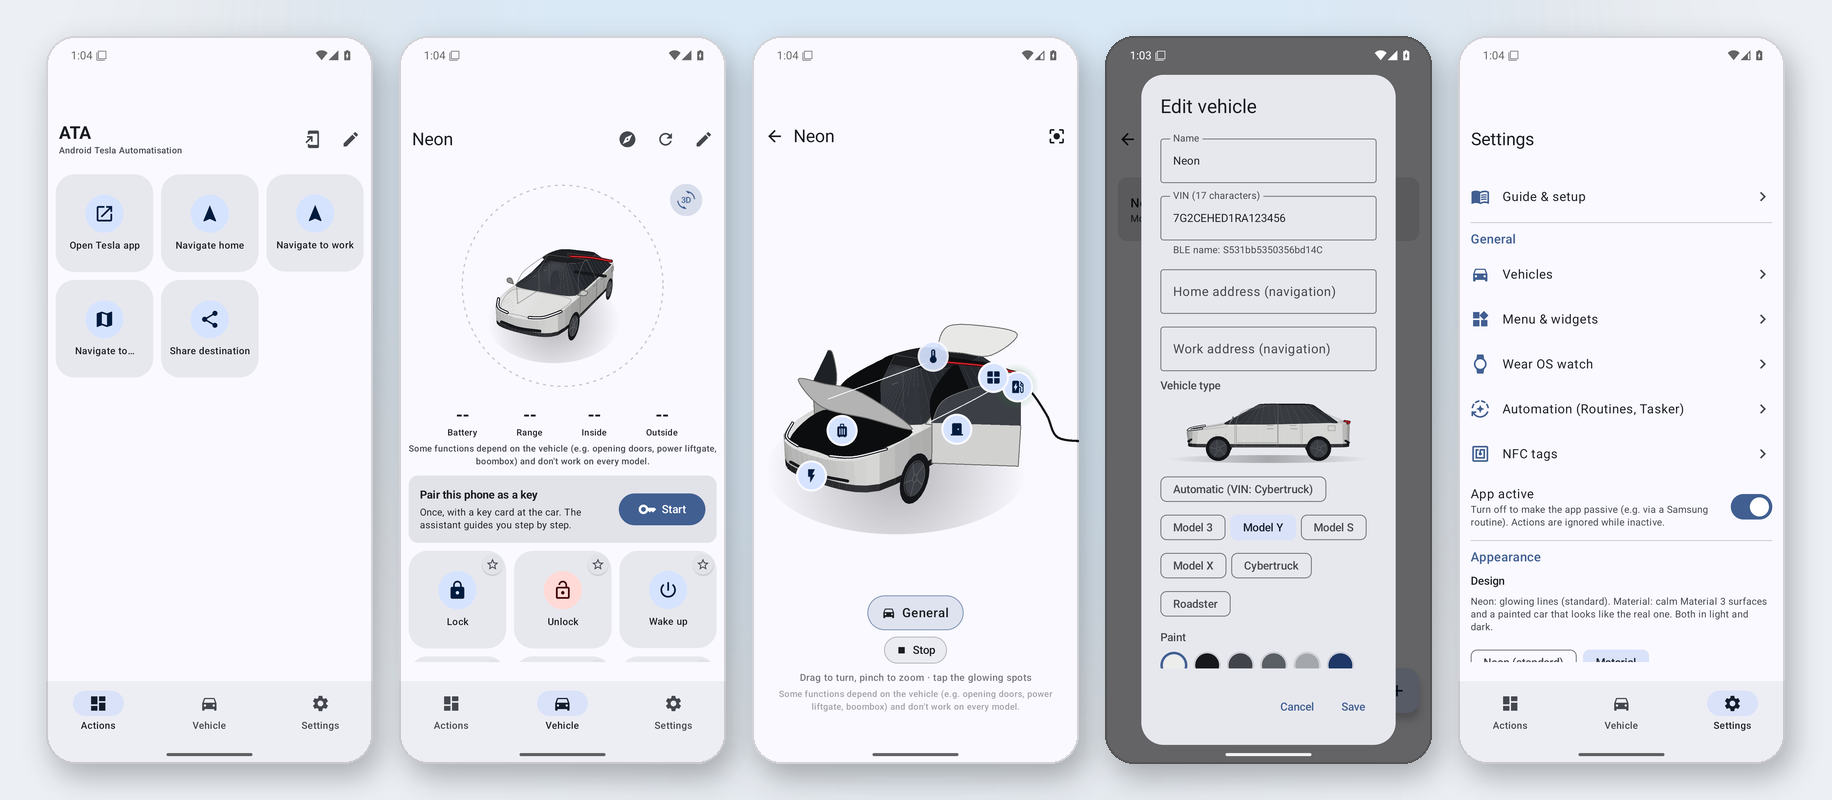
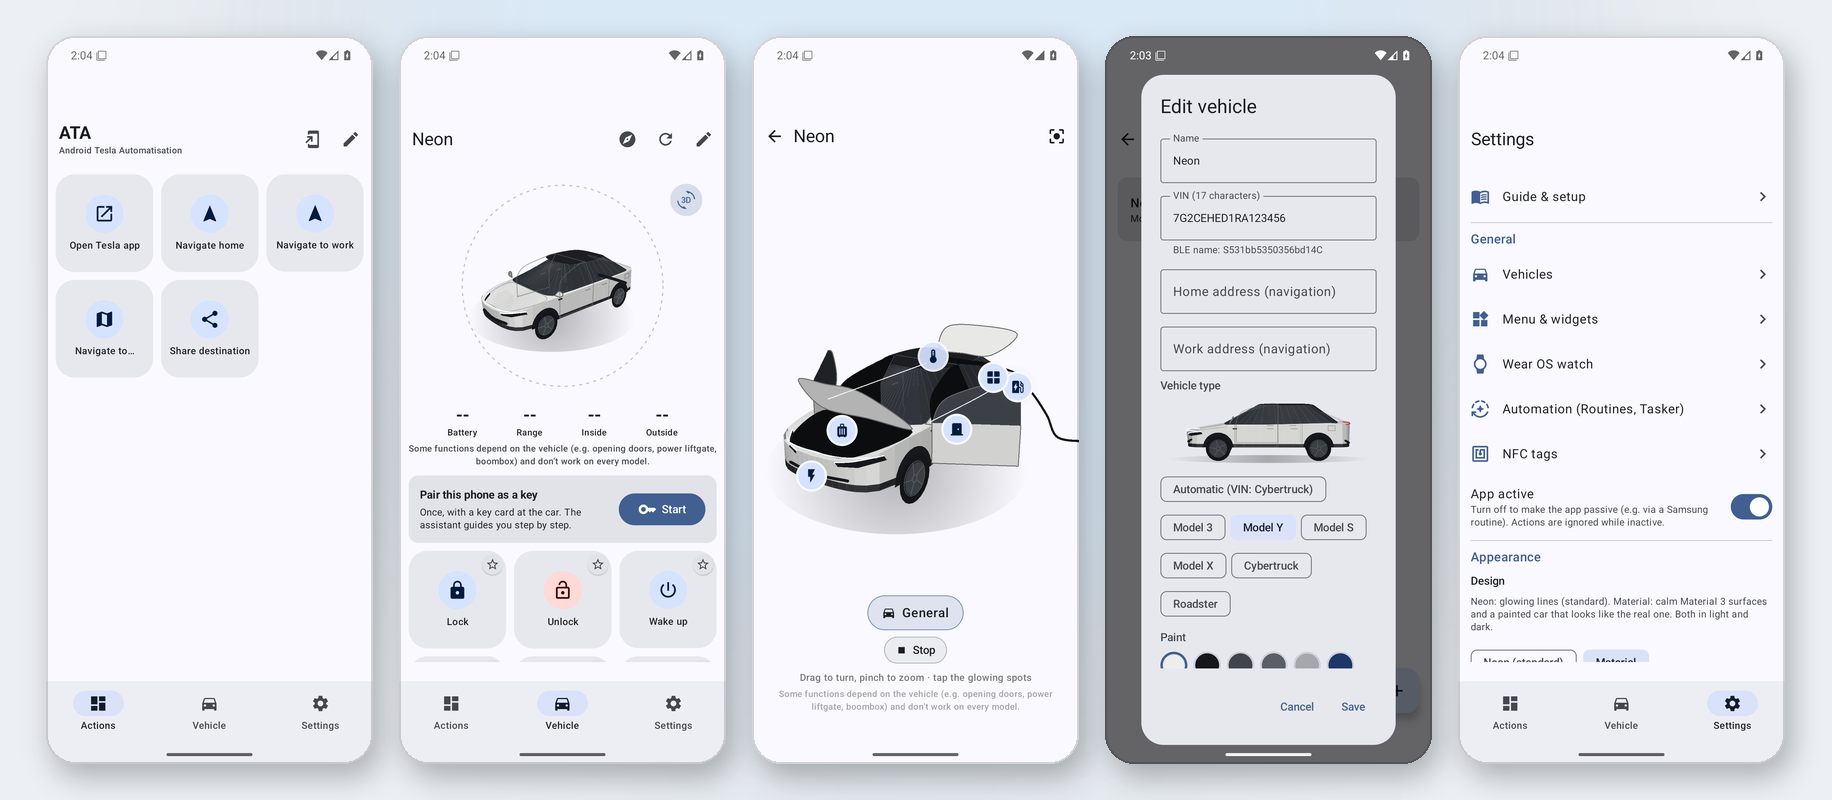
ATA v1.8.2: real light signatures (Model 3 Highland, Model Y Juniper …) for neon and Material, more real-car details, neon light mode, new README collages

Changed region(s): [[0.2489, 0.3125, 0.3422, 0.4688], [0.4356, 0.5625, 0.4978, 0.5938], [0.6534, 0.5312, 0.6845, 0.5625]]

diff --git a/app/src/main/java/org/tfv/ata/ui/components/car/CarModel.kt b/app/src/main/java/org/tfv/ata/ui/components/car/CarModel.kt
@@ -40,6 +40,19 @@ data class BodySpec(
   val angular: Boolean = false,
   /** Four doors (false: coupé, no rear seats). */
   val rearDoors: Boolean = true,
+  /** Light design of the real car (used by the Material design). */
+  val lights: Lights = Lights(),
+)
+
+/**
+ * Which lights the real car has: slim swept headlights, a light bar across the front, taillights wrapping
+ * round the rear corners and/or a light bar across the back.
+ */
+data class Lights(
+  val sweptHeads: Boolean = true,
+  val frontBar: Boolean = false,
+  val wrapTails: Boolean = true,
+  val rearBar: Boolean = false,
 )
 
 object CarModel {
@@ -53,6 +66,7 @@ object CarModel {
       2.37f, .98f, .40f,
       listOf(2.40f to .80f, 1.50f to .98f, .90f to 1.30f, .30f to 1.58f, -.70f to 1.60f, -1.45f to 1.52f, -2.05f to 1.25f, -2.37f to 1.08f), .56f,
       .80f, 1.04f, 1.08f, .30f, -1.35f, .62f, 1.60f, 1.25f, -2.0f, 1.45f, -1.45f, .36f, -.28f,
+      lights = Lights(frontBar = true, wrapTails = false, rearBar = true),
     ),
     BodyStyle.MODEL_S to BodySpec(
       2.5f, .98f, .35f,
@@ -68,11 +82,13 @@ object CarModel {
       2.85f, 1.0f, .48f,
       listOf(2.88f to .98f, 1.95f to 1.12f, .05f to 1.92f, -2.85f to 1.22f), .62f,
       .98f, 1.08f, 1.22f, .30f, -.25f, .55f, 1.90f, 1.95f, -.90f, 1.85f, -1.85f, .42f, -.45f, angular = true,
+      lights = Lights(sweptHeads = false, frontBar = true, wrapTails = false, rearBar = true),
     ),
     BodyStyle.ROADSTER to BodySpec(
       2.15f, .98f, .32f,
       listOf(2.17f to .60f, 1.30f to .78f, .65f to 1.02f, .05f to 1.15f, -.65f to 1.13f, -1.45f to .98f, -2.15f to .82f), .52f,
       .60f, .86f, .84f, .10f, -.60f, .52f, 1.15f, .95f, -1.45f, 1.35f, -1.35f, .34f, -.45f, rearDoors = false,
+      lights = Lights(wrapTails = false, rearBar = true),
     ),
   )
   private val shapes = HashMap<BodyStyle, CarShape>()
@@ -186,12 +202,6 @@ class CarShape(private val s: BodySpec) {
     }
   }
 
-  val headlights: List<List<V3>> =
-    if (s.angular) listOf(listOf(V3(-w * .7f, s.beltFront + .02f, l + .02f), V3(w * .7f, s.beltFront + .02f, l + .02f)))
-    else listOf(1f, -1f).map { side ->
-      CarModel.smooth(listOf(V3(side * .30f, s.beltFront + .06f, l), V3(side * .64f * w, s.beltFront + .09f, l - .1f), V3(side * .9f * w, s.beltFront + .14f, l - .45f)))
-    }
-  val taillight: List<V3> = line(listOf(V3(-w * .8f, s.beltRear, -l + .08f), V3(0f, s.beltRear + .01f, -l - .03f), V3(w * .8f, s.beltRear, -l + .08f)))
 
   /** Front edge of the front doors: behind the windscreen base and the front wheel arch. */
   val doorFront = minOf(s.windscreenBase - .08f, s.wheelFront - s.wheelRadius - .12f)
@@ -459,6 +469,61 @@ class CarShape(private val s: BodySpec) {
     return listOf(lines[2][0], lines[2][1], lines[1][1]) + lines[3].reversed()
   }
   fun doorWindow(side: Float): List<V3> = listOf(frontDoor(side)[1][1]) + frontDoor(side)[3].reversed()
+
+  // ---- Light signatures of the current cars (Model 3 "Highland", Model Y "Juniper" …) ----
+
+  /** A light lens: its outline and which way it faces (for hiding it when the car is turned away). */
+  class Lens(val outline: List<V3>, val normal: V3, val strip: List<V3>)
+
+  private val bf = s.beltFront
+  private val br = s.beltRear
+
+  /** Slim headlights sweeping back into the fenders, with the daytime-running-light strip on top. */
+  val headLenses: List<Lens> = if (!s.lights.sweptHeads) emptyList() else listOf(-1f, 1f).map { side ->
+    val low = if (s.lights.frontBar) -.05f else 0f
+    val top = listOf(V3(side * .36f * w, bf + .02f + low, l - .02f), V3(side * .62f * w, bf + .06f + low, l - .12f), V3(side * .88f * w, bf + .1f + low, l - .42f))
+    val bottom = listOf(V3(side * .9f * w, bf + .03f + low, l - .46f), V3(side * .66f * w, bf - .03f + low, l - .15f), V3(side * .4f * w, bf - .04f + low, l - .04f))
+    Lens(CarModel.smooth(top, steps = 4) + bottom, V3(side * .45f, .25f, .85f), CarModel.smooth(top, steps = 4))
+  }
+
+  /** Light bar across the nose (new Model Y, Cybertruck). */
+  val frontBar: List<V3>? = if (!s.lights.frontBar) null else line(
+    listOf(V3(-.86f * w, bf + .06f, l - .3f), V3(-.5f * w, bf + .07f, l - .02f), V3(0f, bf + .07f, l + .04f), V3(.5f * w, bf + .07f, l - .02f), V3(.86f * w, bf + .06f, l - .3f)),
+  )
+
+  /** Taillights wrapping round the rear corners onto the sides. */
+  val tailLenses: List<Lens> = if (!s.lights.wrapTails) emptyList() else listOf(-1f, 1f).map { side ->
+    val outline = listOf(
+      V3(side * .42f * w, br - .02f, -l - .01f), V3(side * .78f * w, br, -l + .08f), V3(side * .97f * w, br - .02f, -l * .82f),
+      V3(side * .99f * w, br - .11f, -l * .8f), V3(side * .8f * w, br - .13f, -l + .1f), V3(side * .44f * w, br - .12f, -l),
+    )
+    // C-shaped light signature (Model 3 "Highland"): along the top, round the corner and back along the bottom.
+    val c = CarModel.smooth(
+      listOf(
+        V3(side * .5f * w, br - .03f, -l - .005f), V3(side * .84f * w, br - .02f, -l + .1f), V3(side * .975f * w, br - .05f, -l * .815f),
+        V3(side * .96f * w, br - .1f, -l * .81f), V3(side * .82f * w, br - .115f, -l + .1f), V3(side * .52f * w, br - .105f, -l - .005f),
+      ),
+      steps = 4,
+    )
+    Lens(outline, V3(side * .5f, .1f, -.85f), c)
+  }
+
+  /** Light bar across the back. */
+  val rearBar: List<V3>? = if (!s.lights.rearBar) null else line(
+    listOf(V3(-.9f * w, br - .03f, -l + .12f), V3(-.5f * w, br - .02f, -l - .01f), V3(0f, br - .02f, -l - .03f), V3(.5f * w, br - .02f, -l - .01f), V3(.9f * w, br - .03f, -l + .12f)),
+  )
+
+  /** Dark wheel-arch liner above each tyre. */
+  fun archLiner(side: Float, zc: Float): List<V3> {
+    val r = s.wheelRadius + .08f
+    return CarModel.circleYZ(side * w * 1.01f, s.wheelRadius + .03f, zc, r, 14, 0.0, PI) + V3(side * w * 1.01f, s.sill, zc - r) + V3(side * w * 1.01f, s.sill, zc + r)
+  }
+
+  /** Side camera on the front fender. */
+  fun sideCamera(side: Float): List<V3> {
+    val z = s.wheelFront - s.wheelRadius - .12f
+    return listOf(V3(side * (w + .01f), s.beltMid - .1f, z + .05f), V3(side * (w + .01f), s.beltMid - .1f, z - .05f))
+  }
 
   /** Where the tappable spot of [spot] sits on this body. */
   fun anchor(spot: CarHotspot): V3 = when (spot) {

diff --git a/app/src/main/java/org/tfv/ata/ui/components/car/NeonCar.kt b/app/src/main/java/org/tfv/ata/ui/components/car/NeonCar.kt
@@ -190,7 +190,9 @@ fun DrawScope.drawNeonCar(
       val mid = (a.offset.x + b.offset.x) / 2f
       val spec = exp(-((mid - highlightX) / (area.width * .11f)).let { it * it })
       val c = lerp(color, style.white, spec * .65f)
-      drawLine(c.copy(alpha = alpha * (.38f + .62f * depth.coerceIn(0f, 1f))), a.offset, b.offset, width, StrokeCap.Round)
+      // Lines further back fade (less on light backgrounds, where faint lines would vanish).
+      val near = if (style.glow) .38f else .62f
+      drawLine(c.copy(alpha = alpha * (near + (1 - near) * depth.coerceIn(0f, 1f))), a.offset, b.offset, width, StrokeCap.Round)
     }
   }
 
@@ -260,7 +262,11 @@ fun DrawScope.drawNeonCar(
         }
         fill(f.points, lit(base, f.normal))
       }
+    for (side in nearSides) {
+      for ((s2, zc) in shape.wheelCenters) if (s2 == side) fill(shape.archLiner(side, zc), solid.trim)
+    }
     wheels(nearSides)
+    for (side in nearSides) polyline(shape.sideCamera(side), solid.trim, width = style.lineWidth * 1.6f)
   }
 
   // Interior effects (neon: seen through the glass, drawn first; solid: on top of the glass).
@@ -450,23 +456,40 @@ fun DrawScope.drawNeonCar(
   val breathe = if (solid != null) 1f else .72f + .28f * sin(t * 1.3f)
   // Wake: the light bars light up from the middle outwards.
   val wakeLight = wakeP?.let { (it * 2.2f).coerceIn(0f, 1f) }
-  if (solid != null) {
-    // Dark lenses behind the light strips.
-    shape.headlights.forEach { polyline(it, solid.trim, width = style.lineWidth * 3.4f) }
-    polyline(shape.taillight, Color(0xFF3A0B0E), width = style.lineWidth * 3.4f)
+  // The real cars' light signature (lenses, strips, light bars). Neon draws it as glowing lines (seen through
+  // the car), the solid body only on the side facing the viewer.
+  val front = V3(0f, .2f, 1f)
+  val back = V3(0f, .2f, -1f)
+  fun visible(normal: V3, limit: Float) = solid == null || camera.facing(normal) > limit
+  val headLines: List<List<V3>> = buildList {
+    shape.headLenses.filter { visible(it.normal, -.15f) }.forEach { add(it.strip) }
+    shape.frontBar?.takeIf { visible(front, -.2f) }?.let { add(it) }
   }
-  shape.headlights.forEach { polyline(it, style.white, width = style.lineWidth * 1.3f, alpha = breathe) }
-  polyline(shape.taillight, style.red, width = style.lineWidth * 1.3f, alpha = (.75f + .25f * breathe) + .1f * lightBoost)
+  val tailLines: List<List<V3>> = buildList {
+    shape.tailLenses.filter { visible(it.normal, -.15f) }.forEach { add(it.strip) }
+    shape.rearBar?.takeIf { visible(back, -.2f) }?.let { add(it) }
+  }
+  if (solid != null) {
+    shape.headLenses.filter { visible(it.normal, -.15f) }.forEach { fill(it.outline, solid.trim) }
+    shape.tailLenses.filter { visible(it.normal, -.15f) }.forEach { fill(it.outline, Color(0xFF5A0A10)) }
+  } else {
+    // Lens outlines as faint lines around the light strips.
+    shape.headLenses.forEach { polyline(it.outline + it.outline.first(), style.white, width = style.lineWidth * .7f, alpha = .35f) }
+    shape.tailLenses.forEach { polyline(it.outline + it.outline.first(), style.red, width = style.lineWidth * .7f, alpha = .35f) }
+  }
+  headLines.forEach { polyline(it, style.white, width = style.lineWidth * 1.3f, alpha = breathe) }
+  tailLines.forEach { polyline(it, style.red, width = style.lineWidth * 1.3f, alpha = (.75f + .25f * breathe) + .1f * lightBoost) }
   if (wakeLight != null) {
     val fade = 1f - (((wakeP ?: 1f) - .5f) / .5f).coerceIn(0f, 1f)
-    shape.headlights.forEach { polyline(it.take((it.size * wakeLight).toInt().coerceAtLeast(2)), style.white, width = style.lineWidth * 2.4f, alpha = fade) }
-    val tail = shape.taillight
-    val mid = tail.size / 2
-    val half = (mid * wakeLight).toInt()
-    polyline(tail.subList((mid - half).coerceAtLeast(0), (mid + half + 1).coerceAtMost(tail.size)), style.red, width = style.lineWidth * 2.4f, alpha = fade)
+    headLines.forEach { polyline(it.take((it.size * wakeLight).toInt().coerceAtLeast(2)), style.white, width = style.lineWidth * 2.4f, alpha = fade) }
+    tailLines.forEach { tail ->
+      val mid = tail.size / 2
+      val half = (mid * wakeLight).toInt()
+      polyline(tail.subList((mid - half).coerceAtLeast(0), (mid + half + 1).coerceAtMost(tail.size)), style.red, width = style.lineWidth * 2.4f, alpha = fade)
+    }
   }
-  if (drive != null) shape.headlights.forEach { polyline(it, style.white, width = style.lineWidth * 2.2f, alpha = sin(drive * PI).toFloat()) }
-  if (lightBoost > 0f) {
+  if (drive != null) headLines.forEach { polyline(it, style.white, width = style.lineWidth * 2.2f, alpha = sin(drive * PI).toFloat()) }
+  if (lightBoost > 0f && (solid == null || camera.facing(front) > -.1f)) {
     for (p in listOf(shape.headlightLeft, shape.headlightRight)) {
       val c = camera.project(p)
       val r = area.minDimension * .16f

diff --git a/app/src/main/java/org/tfv/ata/ui/screens/Car3DScreen.kt b/app/src/main/java/org/tfv/ata/ui/screens/Car3DScreen.kt
@@ -91,6 +91,7 @@ import org.tfv.ata.ui.components.iconFor
 import kotlin.math.roundToInt
 
 private val SHOWROOM = Color(0xFF04060B)
+private val SHOWROOM_LIGHT = Color(0xFFEEF2F7)
 
 /** Animation demo: what plays one after another (drawing only, nothing is sent to the car). */
 private val DEMO_STEPS: List<List<AtaAction>> = listOf(
@@ -199,11 +200,16 @@ fun Car3DScreen(vm: AtaViewModel, state: AtaUiState, onBack: () -> Unit) {
   val status = CarStatus(snapshot?.charging == true, snapshot?.climateOn == true, snapshot?.sentry == true, if (known) snapshot?.batteryPercent else null)
   val palette = AtaColors.current
   val material = palette.material
-  // Neon: always the dark showroom; Material: the app's surface in light or dark.
-  val look = rememberCarLook(state.selected, dark = if (material) palette.isDark else true, lineWidth = 3f)
+  // Neon: dark or light showroom; Material: the app's surface. Both follow the light / dark theme.
+  val dark = palette.isDark
+  val look = rememberCarLook(state.selected, dark = dark, lineWidth = 3f)
   val scheme = MaterialTheme.colorScheme
-  val bg = if (material) scheme.surface else SHOWROOM
-  val fg = if (material) scheme.onSurface else Color.White
+  val bg = when {
+    material -> scheme.surface
+    dark -> SHOWROOM
+    else -> SHOWROOM_LIGHT
+  }
+  val fg = if (material || !dark) scheme.onSurface else Color.White
   val accent = look.style.line
   val pulse by rememberInfiniteTransition(label = "spots").animateFloat(
     initialValue = .85f,
@@ -241,7 +247,7 @@ fun Car3DScreen(vm: AtaViewModel, state: AtaUiState, onBack: () -> Unit) {
         if (threeD) drawNeonCar(shape, camera, yaw, fx, status, now, look.style)
         else drawFlatCar(shape, camera, fx, status, now, look.flat)
         if (known) {
-          drawBatteryRing(Offset(size.width / 2f, size.height * .86f), size.minDimension * .07f, snapshot?.batteryPercent, status.charging, now, !material, accent, width = 8f, material = material)
+          drawBatteryRing(Offset(size.width / 2f, size.height * .86f), size.minDimension * .07f, snapshot?.batteryPercent, status.charging, now, !material && dark, accent, width = 8f, material = material)
         }
       }
 
@@ -265,7 +271,16 @@ fun Car3DScreen(vm: AtaViewModel, state: AtaUiState, onBack: () -> Unit) {
             } else {
               Box(Modifier.size(34.dp).background(accent.copy(alpha = .22f), CircleShape).border(1.5.dp, accent, CircleShape))
             }
-            Icon(spotIcon(spot), contentDescription = stringResource(titleFor(spot)), tint = if (material) scheme.onPrimaryContainer else Color.White, modifier = Modifier.size(18.dp))
+            Icon(
+              spotIcon(spot),
+              contentDescription = stringResource(titleFor(spot)),
+              tint = when {
+                material -> scheme.onPrimaryContainer
+                dark -> Color.White
+                else -> accent
+              },
+              modifier = Modifier.size(18.dp),
+            )
           }
         }
       }

diff --git a/app/src/main/java/org/tfv/ata/ui/components/car/CarLook.kt b/app/src/main/java/org/tfv/ata/ui/components/car/CarLook.kt
@@ -49,7 +49,8 @@ fun rememberCarLook(vehicle: Vehicle?, dark: Boolean = AtaColors.current.isDark,
   }
   val neon = Color((vehicle?.carNeon ?: org.tfv.ata.core.NeonColor.BLUE).argb)
   return CarLook(
-    style = NeonStyle(line = if (dark) neon else lerp(neon, Color.Black, .35f), glow = dark, lineWidth = if (dark) lineWidth else lineWidth + .6f),
+    // On light backgrounds the lines get darker and a bit stronger, so they read like ink instead of light.
+    style = NeonStyle(line = if (dark) neon else lerp(neon, Color(0xFF06121F), .5f), glow = dark, lineWidth = if (dark) lineWidth else lineWidth + 1f),
     flat = FlatStyle(palette.carBody, palette.carGlass, palette.accent, dark),
     material = false,
   )

diff --git a/RELEASE_NOTES.md b/RELEASE_NOTES.md
@@ -1,26 +1,17 @@
-## ATA v1.8.1 — Material Design, Farbwahl, Lenkrad links
+## ATA v1.8.2 — Echte Lichtsignaturen, Neon hell, realistischeres Material-Auto
 
-### Neues Design: Material
-- Unter **Einstellungen → Darstellung → Design** gibt es jetzt **Neon (Standard)** und **Material**, beide **hell und dunkel**.
-- **Material** stellt die ganze App um: ruhige Material-3-Flächen, flache Kacheln mit Symbol auf Tonfläche, ein gleichmäßiger Akku-Ring und eine weiche Ripple-Animation beim Ausführen.
-- **Das Fahrzeug in Material:**
-  - Ein lackiertes 3D-Auto, das dem echten nahekommt: schwarzes Glasdach, dunkle Scheiben, schwarze Schweller, Frontschürze und Diffusor, dunkle Aero-Felgen, Scheinwerfer mit Tagfahrlicht-Leiste, weicher Schatten und Klarlack-Glanz beim Drehen.
-  - Alle sechs Modelle, in 3D und in der 2D-Seitenansicht.
-- **Animationen in Material:**
-  - Türen, Frunk, Kofferraum und Ladeklappe öffnen sich als lackierte Teile, dahinter ist die dunkle Öffnung zu sehen.
-  - Spiegel klappen ein und aus.
-  - Licht, Ladekabel, Luftstrom, Musik, Wächter, Bioschutz, Aufwecken und Herbeirufen gibt es weiterhin, in Material-Farben ohne Leuchten.
+### Lichtsignaturen der aktuellen Teslas
+- **Model 3 (Highland):** schmale, nach hinten gezogene Scheinwerfer mit Tagfahrlicht-Leiste und **C-förmige Rückleuchten**, die um die Ecken laufen.
+- **Model Y (Juniper):** **Lichtleiste quer über die Front** mit tiefer liegenden Scheinwerfern und **durchgehende Lichtleiste hinten**.
+- **Model S / X:** schmale Scheinwerfer und Rückleuchten um die Ecken. **Cybertruck:** Lichtleisten vorne und hinten. **Roadster:** schmale Scheinwerfer und Leiste hinten.
+- Gilt für **Neon** (leuchtende Linien) und **Material** (Linsen und Leuchtstreifen).
 
-### Farbwahl pro Fahrzeug
-- In **Einstellungen → Fahrzeuge → Bearbeiten**:
-  - **Material:** Tesla-Lackierung wählen: Pearl White, Solid Black, Stealth Grey, Midnight Silver, Quicksilver, Deep Blue, Ultra Red oder Stainless (Standard beim Cybertruck).
-  - **Neon:** Linienfarbe wählen: Blau, Cyan, Lila, Pink, Rot, Grün, Bernstein oder Weiß.
+### Material: noch näher am echten Auto
+- Dunkle Radhausschalen über den Reifen und Seitenkamera am vorderen Kotflügel.
+- Lichter werden nur noch gezeichnet, wenn die Seite zum Betrachter zeigt, also nicht mehr durch die Karosserie.
 
-### Fahrzeug
-- **Lenkrad links** (Linkslenker). Fahrertür und Ladeklappe sitzen jetzt ebenfalls korrekt auf der linken Seite. Die 2D-Ansicht zeigt die Fahrerseite.
-- **Drehen folgt dem Finger:** Das Fahrzeug dreht sich jetzt in die Richtung, in die du wischst.
-
-### Menü & Widgets
-- Übersicht mit **Untermenüs**: Menü beim Icon, Samsung Routinen, Feste Werte und Aktionen-Widget, jeweils mit Anzeige, wie viele gewählt sind.
+### Neon im hellen Modus
+- Die Vollbild-Ansicht folgt jetzt dem hellen Modus: heller Showroom mit dunkleren Neon-Linien.
+- Die README-Screenshots für Neon hell zeigen jetzt wirklich den hellen Modus.
 
 NFC-Schlüsselkarte (Handy und Uhr) bleibt **BETA**.

diff --git a/README.md b/README.md
@@ -23,10 +23,10 @@ ATA is free for personal use. If it saves you a few taps every day, you can supp
 
 ## Downloads
 
-Latest release **v1.8.1** — phone APK for **64‑bit ARM (arm64‑v8a)**, watch APK for **64‑ and 32‑bit ARM (arm64‑v8a + armeabi‑v7a)**:
+Latest release **v1.8.2** — phone APK for **64‑bit ARM (arm64‑v8a)**, watch APK for **64‑ and 32‑bit ARM (arm64‑v8a + armeabi‑v7a)**:
 
-- 📱 Phone APK: **[ATA-phone-v1.8.1-arm64-v8a.apk](https://github.com/juliandaniels97/AndroidTeslaAutomatisation-ATA-/releases/download/v1.8.1/ATA-phone-v1.8.1-arm64-v8a.apk)**
-- ⌚ Wear OS APK: **[ATA-wear-v1.8.1.apk](https://github.com/juliandaniels97/AndroidTeslaAutomatisation-ATA-/releases/download/v1.8.1/ATA-wear-v1.8.1.apk)**
+- 📱 Phone APK: **[ATA-phone-v1.8.2-arm64-v8a.apk](https://github.com/juliandaniels97/AndroidTeslaAutomatisation-ATA-/releases/download/v1.8.2/ATA-phone-v1.8.2-arm64-v8a.apk)**
+- ⌚ Wear OS APK: **[ATA-wear-v1.8.2.apk](https://github.com/juliandaniels97/AndroidTeslaAutomatisation-ATA-/releases/download/v1.8.2/ATA-wear-v1.8.2.apk)**
 
 All releases are listed under [Releases](https://github.com/juliandaniels97/AndroidTeslaAutomatisation-ATA-/releases).
 All release builds are signed with the same release key, so new versions install as an update over
